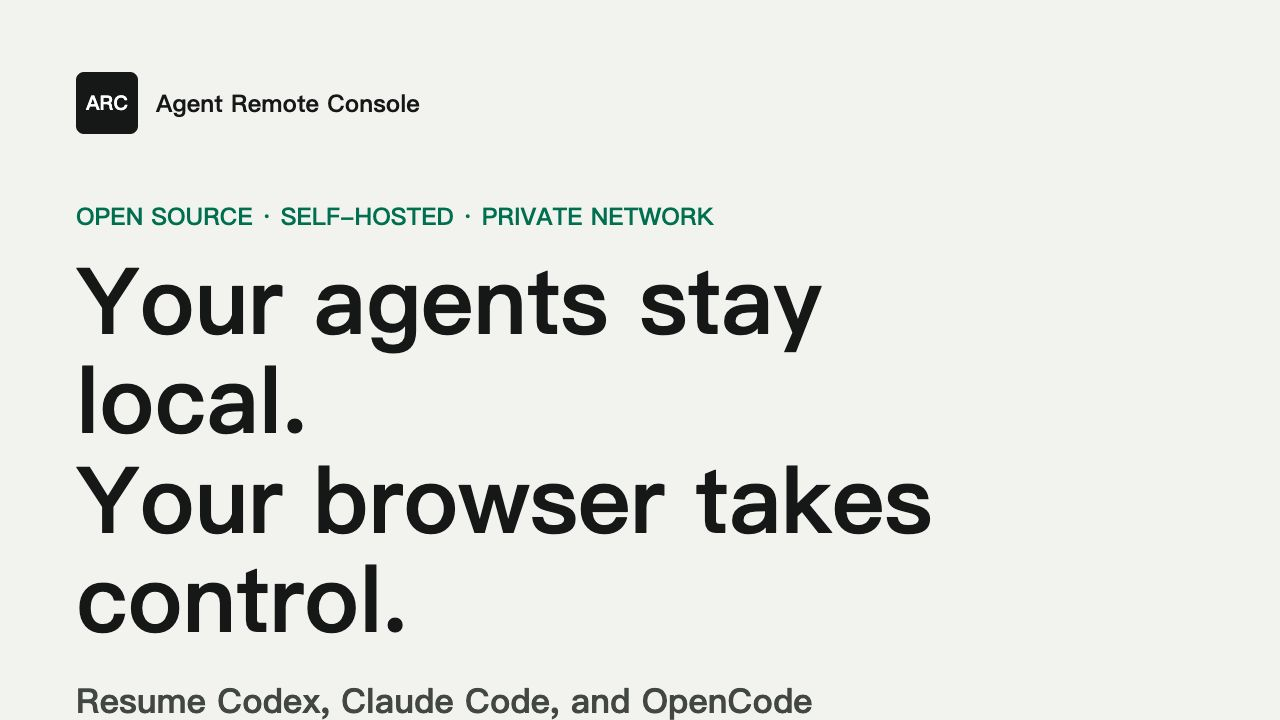
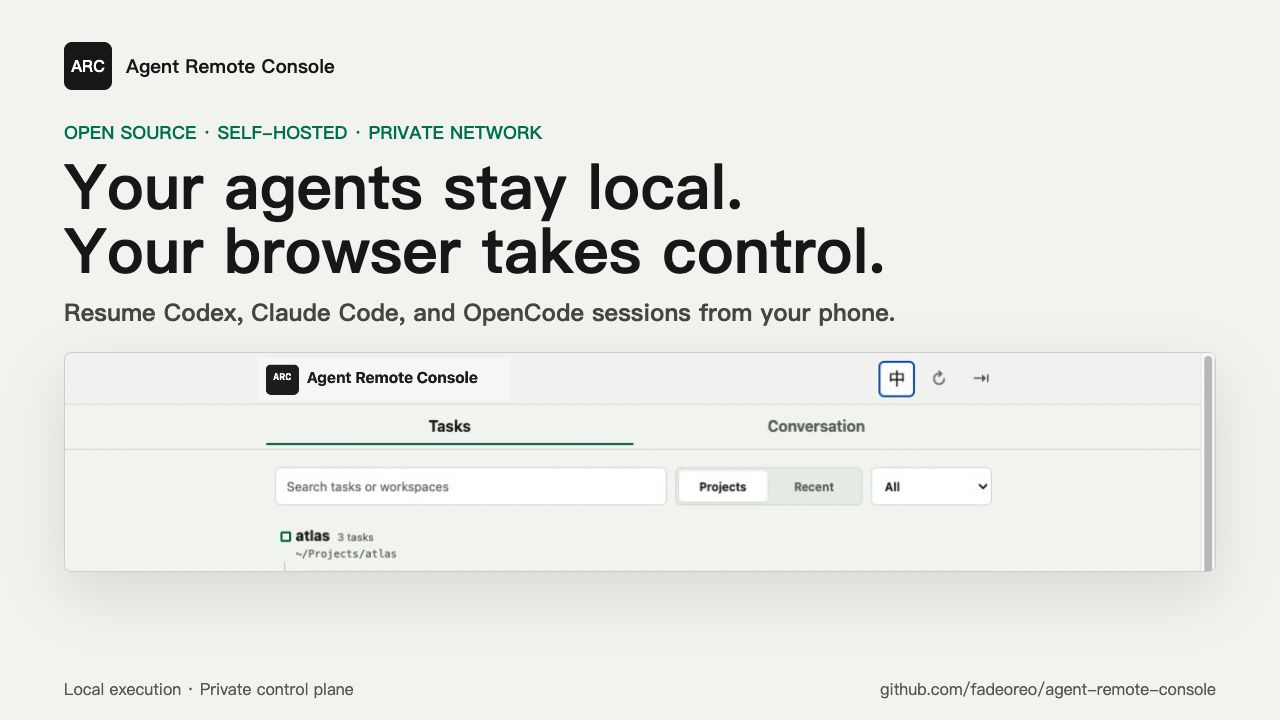
fix: format X launch artwork for landscape

diff --git a/docs/assets/launch-posters.html b/docs/assets/launch-posters.html
@@ -53,6 +53,15 @@
     .flow-arrow { height: 54px; margin-left: 62px; border-left: 3px solid #147a58; }
     .security { margin-top: 42px; display: grid; grid-template-columns: repeat(3, 1fr); gap: 16px; }
     .security-item { min-height: 112px; padding: 22px; border-top: 5px solid #147a58; background: #e8eee9; font-size: 23px; line-height: 1.4; font-weight: 680; }
+    body[data-slide="4"] { width: 1280px; height: 720px; }
+    .slide-4 { width: 1280px; height: 720px; padding: 42px 64px 34px; }
+    .slide-4 .brand { font-size: 19px; gap: 14px; }
+    .slide-4 .mark { width: 48px; height: 48px; font-size: 16px; }
+    .slide-4 .eyebrow { margin-top: 30px; font-size: 18px; }
+    .slide-4 h1 { margin-top: 10px; max-width: 1160px; font-size: 62px; line-height: 1.03; }
+    .slide-4 .lead { margin-top: 14px; max-width: 1100px; font-size: 24px; line-height: 1.3; }
+    .slide-4 .screenshot { margin-top: 24px; height: 220px; }
+    .slide-4 .footer { left: 64px; right: 64px; bottom: 20px; font-size: 16px; }
   </style>
 </head>
 <body>
